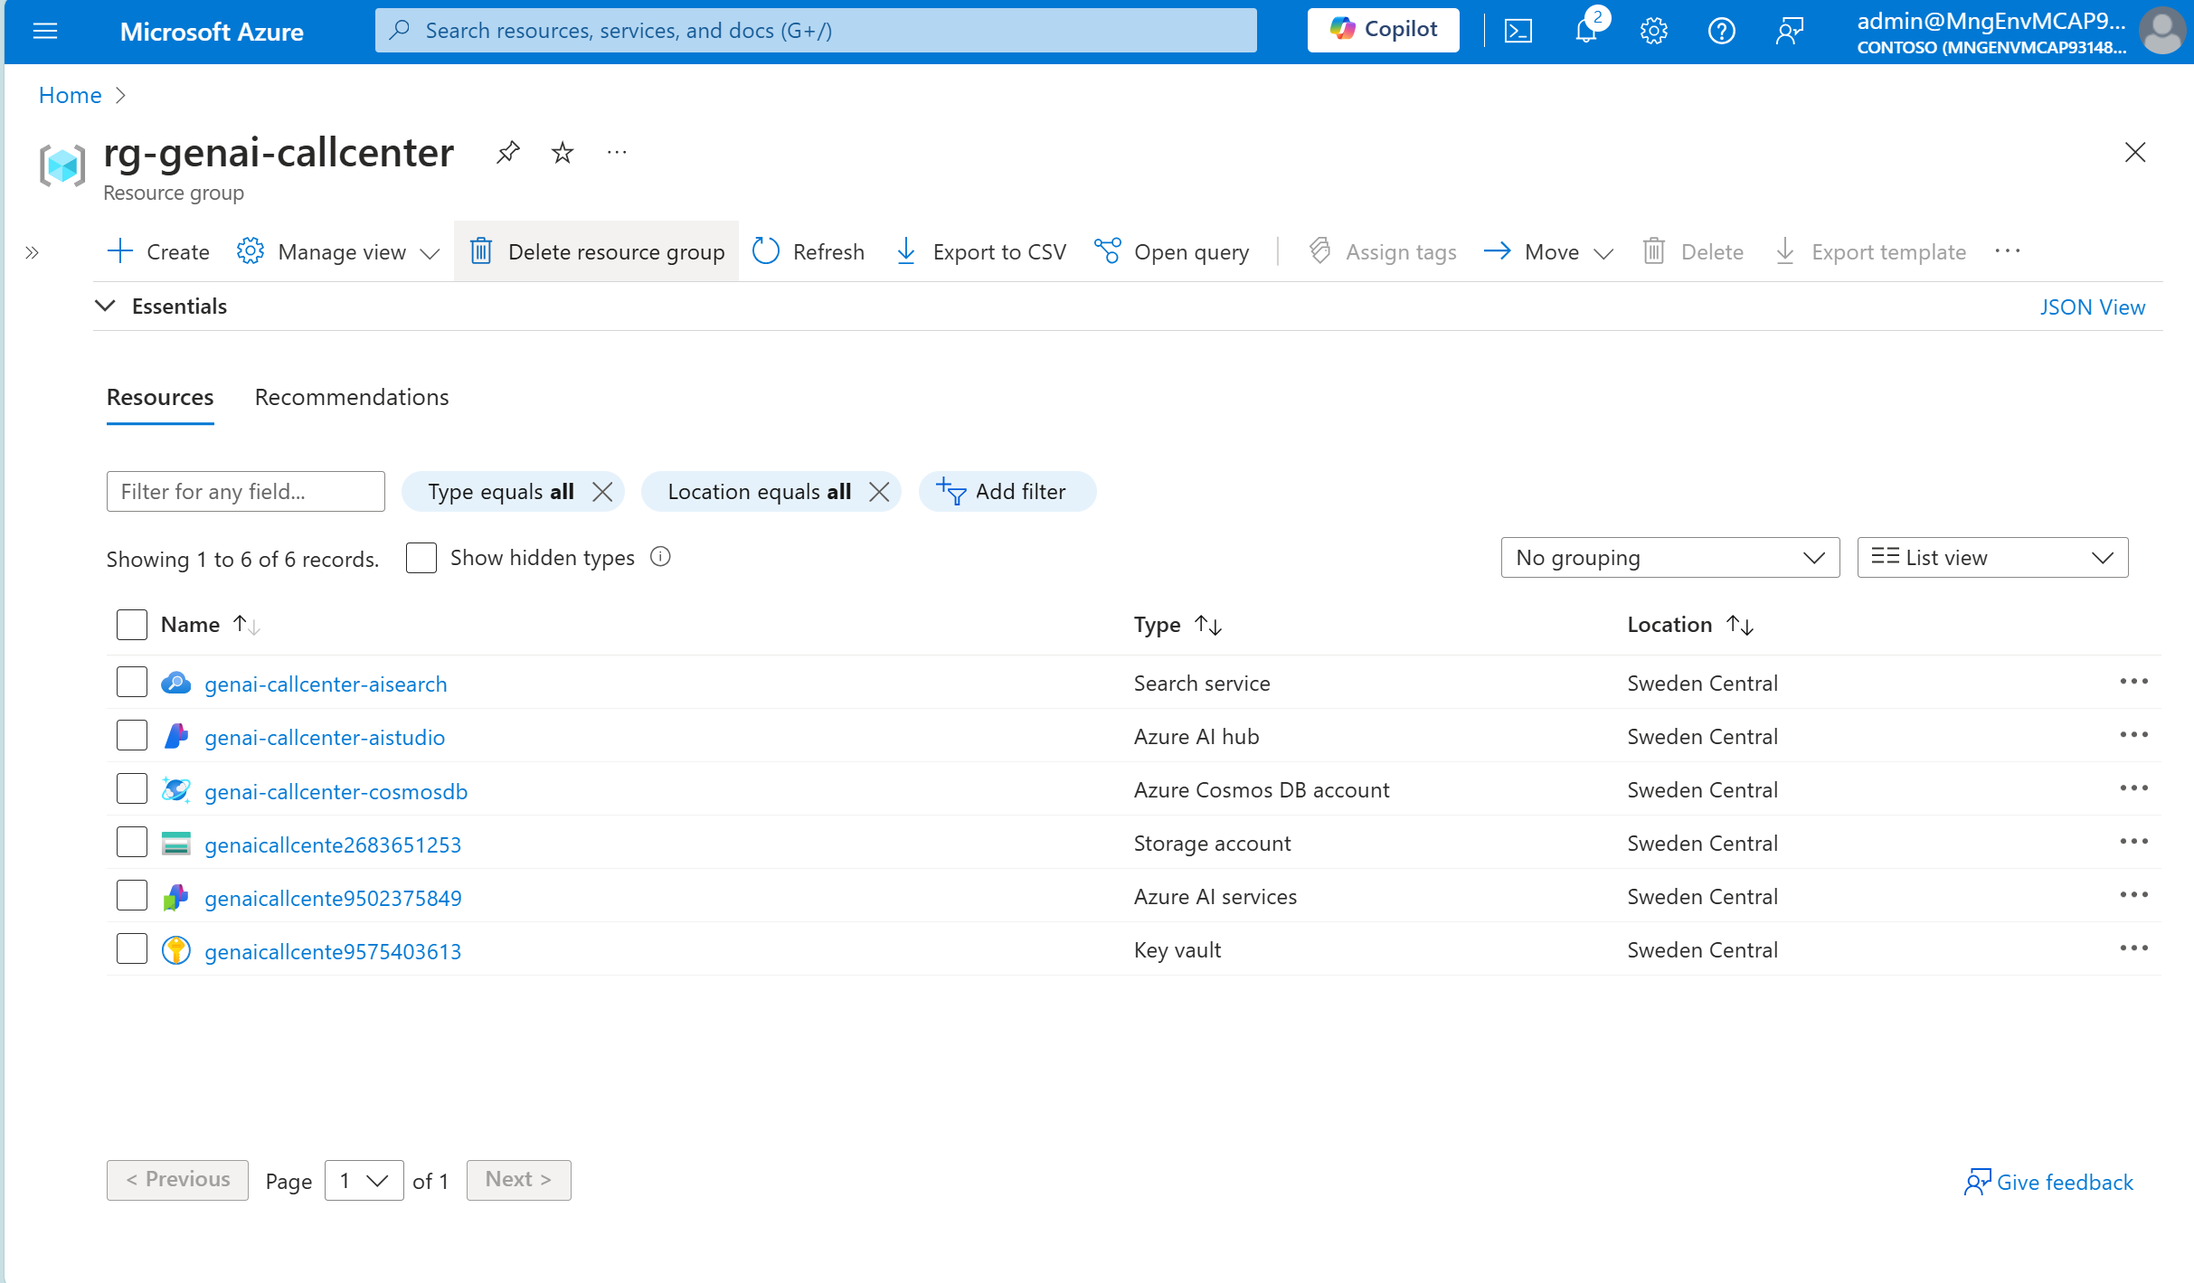
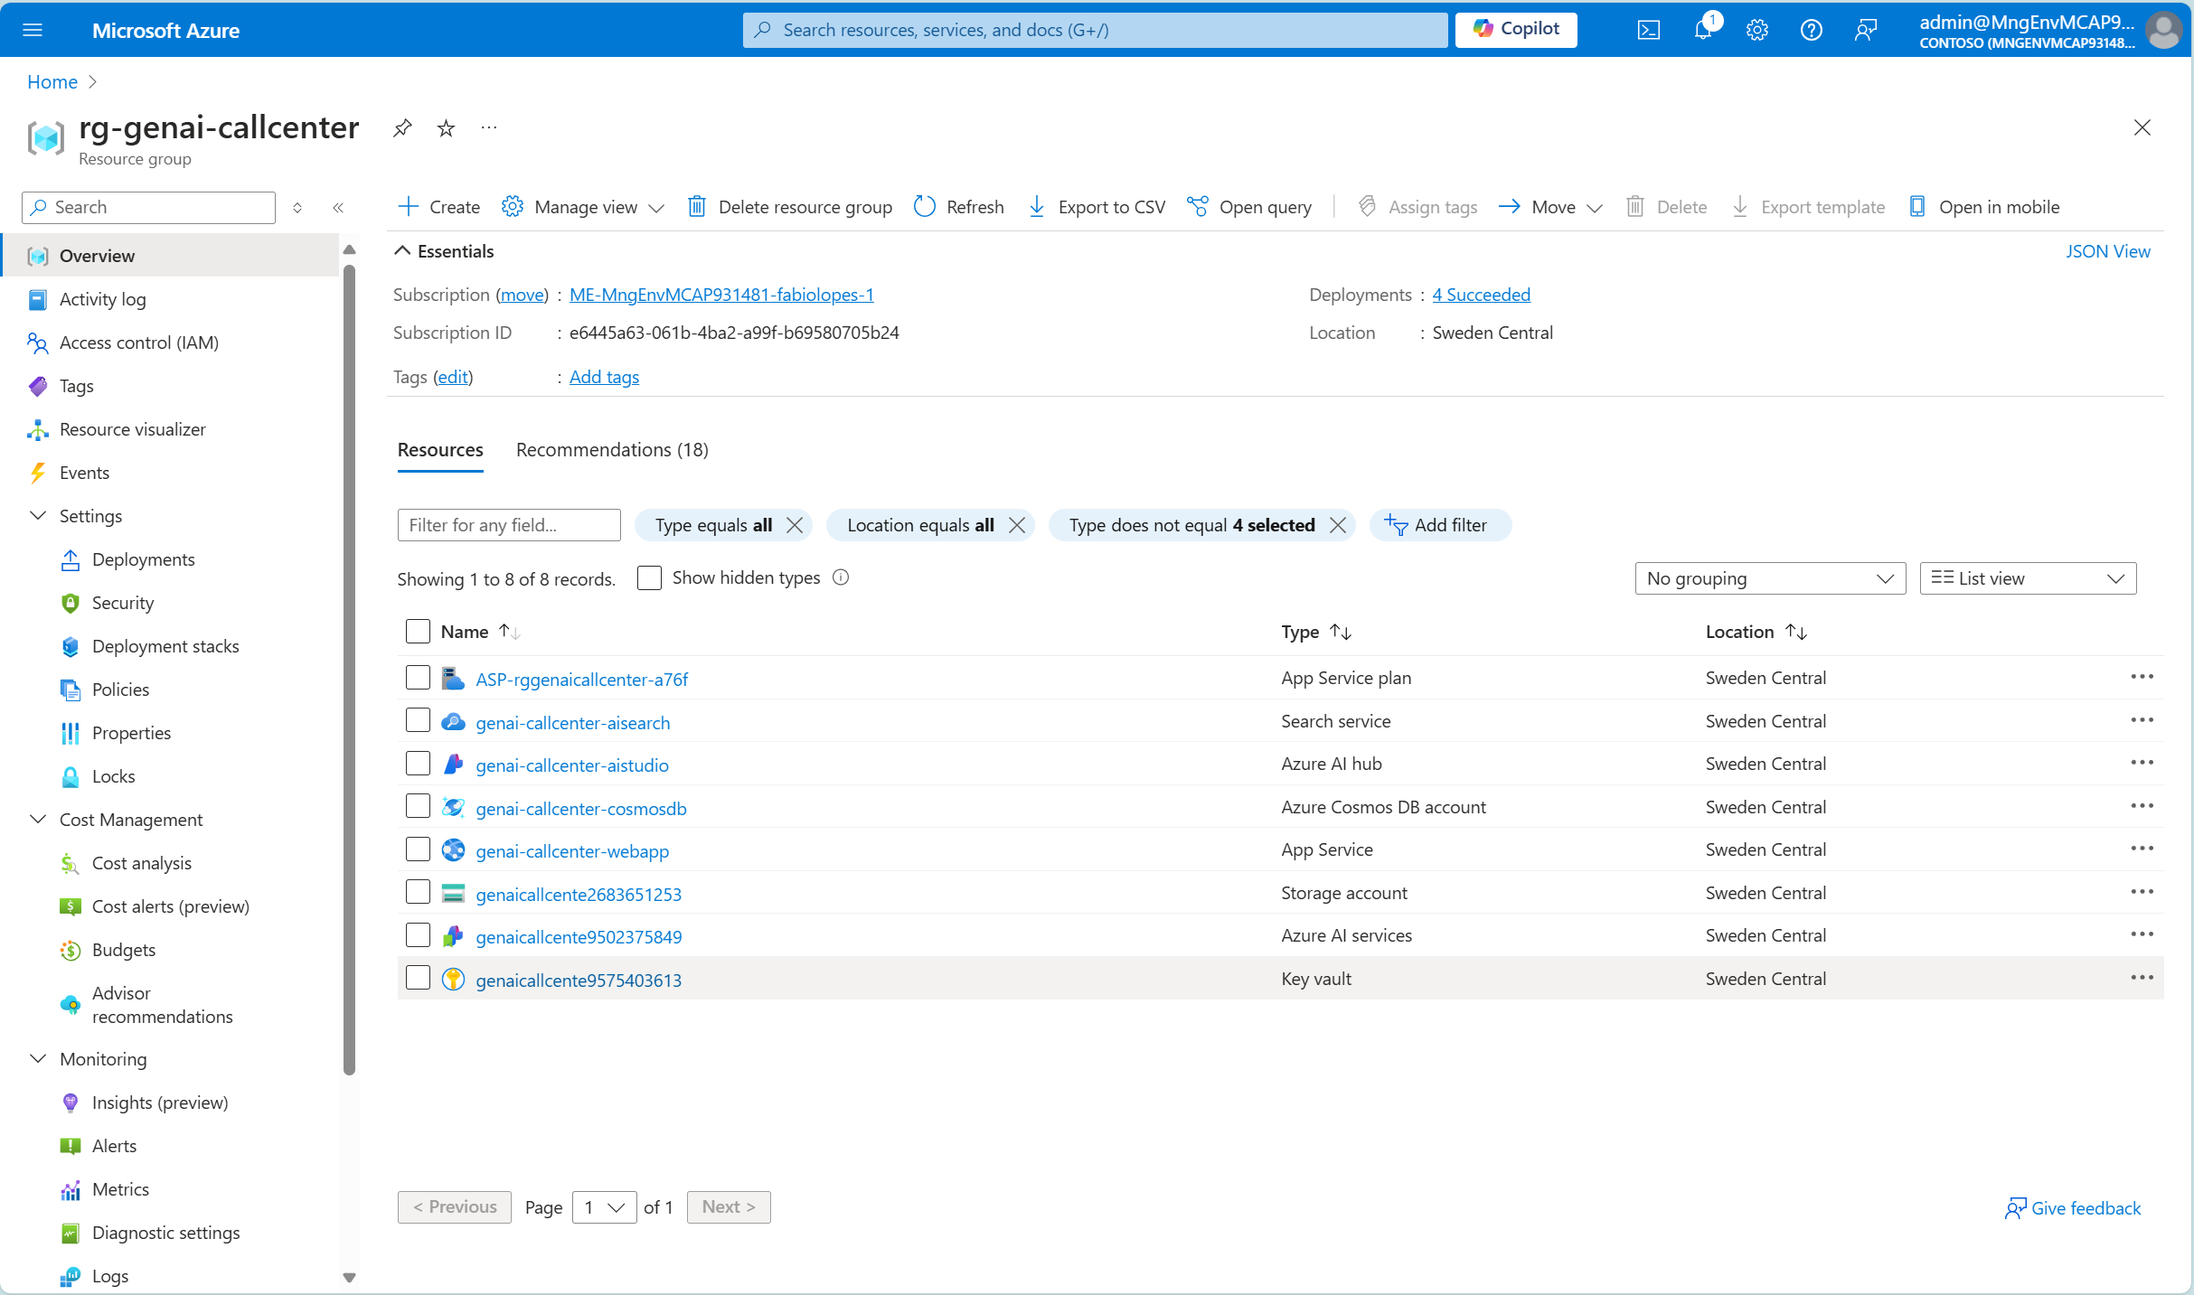
readme5

diff --git a/Challenge4/app.py b/Challenge4/app.py
@@ -15,12 +15,13 @@ from azure.cosmos import CosmosClient
 #################################################################################
 def allowSelfSignedHttps(allowed):
     # bypass the server certificate verification on client side
+    # Used to bypass the SSL certificate verification for the Prompt Flow endpoint
     if allowed and not os.environ.get('PYTHONHTTPSVERIFY', '') and getattr(ssl, '_create_unverified_context', None):
         ssl._create_default_https_context = ssl._create_unverified_context
 
 def init_session_state(call_id:str):
     """
-    Initialize session state for the app
+    Initialize session state for the app. This will reset all of the call context variables to their initial state.
     
     Args:
     call_id : str : the call_id selected by the user
@@ -154,17 +155,27 @@ def analyseCallFile(filename):
     Returns:
         None
     """
+    # setup Azure AI Speech SDK configuration
     speech_config = speechsdk.SpeechConfig(subscription=AZURE_AI_SPEECH_KEY, region=AZURE_AI_SPEECH_REGION)
-    audio_config = speechsdk.audio.AudioConfig(filename=filename)
 
+    # setup audio configuration. In here, we will use a .wav file as the input. You can also use a microphone as input.
+    audio_config = speechsdk.audio.AudioConfig(filename=filename)
     auto_detect_source_language_config = speechsdk.languageconfig.AutoDetectSourceLanguageConfig(languages=["en-US"])
+
+    # We configure the SDK to provide us with continuous regognition. This means that the SDK will keep listening to the audio input and provide us with the transcription as it comes in.
     speech_config.set_property(property_id=speechsdk.PropertyId.SpeechServiceConnection_LanguageIdMode, value='Continuous')
+    
     speech_recognizer = speechsdk.SpeechRecognizer(speech_config=speech_config, 
                                                    audio_config=audio_config,
                                                    auto_detect_source_language_config=auto_detect_source_language_config
                                                    )
 
-    done = False
+
+    # The SDK provides us with callbacks that we can use to handle the events fired by the recognizer.
+    # We will use these callbacks to update the UI elements with the transcription and the analysis results.
+    # We will also use these callbacks to save the transcript and the analysis results to CosmosDB.
+
+    done = False # initialize the variable to start the transcription
 
     def stop_cb(evt):
         """
@@ -183,7 +194,7 @@ def analyseCallFile(filename):
 
     # Connect callbacks to the events fired by the speech recognizer
     if debug:
-        # speech_recognizer.recognizing.connect(lambda evt: print('RECOGNIZING: {}'.format(evt))) # gets new texts as they come in
+        speech_recognizer.recognizing.connect(lambda evt: print('RECOGNIZING: {}'.format(evt))) # gets new texts as they come in
         speech_recognizer.recognized.connect(lambda evt: print('RECOGNIZED: {}'.format(evt))) # after a phrase being spoken, this event is fired
         speech_recognizer.session_started.connect(lambda evt: print('SESSION STARTED: {}'.format(evt))) # when transcription starts
         speech_recognizer.session_stopped.connect(lambda evt: print('SESSION STOPPED {}'.format(evt))) # when transcription ends
@@ -193,14 +204,14 @@ def analyseCallFile(filename):
     speech_recognizer.session_stopped.connect(stop_cb)
     speech_recognizer.canceled.connect(stop_cb)
 
-    # # Call analysis
-    speech_recognizer.recognized.connect(register_transcript) # Saves the entire transcription
-    speech_recognizer.recognizing.connect(handle_printable_text) # Saves the transcription to be displayed
+    # Call analysis
+    speech_recognizer.recognized.connect(register_transcript) # Saves the transcription
+    speech_recognizer.recognizing.connect(handle_printable_text) # Saves the transcription to be displayed in the frontend
     speech_recognizer.recognized.connect(call_analysis) # Analyzes the call by calling the Prompt Flow endpoint
 
     # Start continuous speech recognition
     speech_recognizer.start_continuous_recognition()
-    placeholder = st.empty()
+    placeholder = st.empty() # initialize the placeholder to display the UI elements
     while not done:
         time.sleep(.5) # Update the UI elements every 0.5 seconds
         with placeholder.container():
@@ -215,18 +226,21 @@ def analyseCallFile(filename):
                 col2.metric(label="Customer identified?", value=None)
                 col2.text_area(label="Customer Indentification", value=None, key=random())
             col2.text_area(label="Agent Next Best Action", value=call_context['nextBestAction'][-1], height=200, key=random())
-            col2.expander(label="History of Next Best Actions",expanded=False).write(call_context['nextBestAction'][-1:0:-1])
+            col2.expander(label="History of Next Best Actions",expanded=True).write(call_context['nextBestAction'][-1:0:-1])
 
 #################################################################################
 # END OF HELPER FUNCTIONS
 #################################################################################
 
-# Set environment
+##### Set environment
+# Load the environment variables from the 'config.env' file
 load_env = load_dotenv(find_dotenv('config.env'))
 call_context = {}
 debug = True
 
-##### Check if the environment variables are loaded successfully
+##### Validate environment
+
+# Check if the environment variables are loaded successfully
 assert load_env, "Error loading environment variables. Make sure that you have the 'config.env' file in the root directory."
 
 AZURE_AI_SPEECH_KEY = os.environ["SPEECH_KEY"]
@@ -247,27 +261,27 @@ assert COSMOSDB_CONNECTION_KEY, "Please specify the connection key for CosmosDB.
 assert COSMOSDB_DATABASE_NAME, "Please specify the database name for CosmosDB."
 assert COSMOSDB_CONTAINER_NAME, "Please specify the container name for CosmosDB."
 
+##### Initialize CosmosDB client
+# Create a Cosmos DB client
+cosmos_client = CosmosClient(COSMOSDB_CONNECTION_URL, credential=COSMOSDB_CONNECTION_KEY)
+# Get a reference to the database
+cosmos_database = cosmos_client.get_database_client(COSMOSDB_DATABASE_NAME)
+# Get a reference to the container
+cosmos_container = cosmos_database.get_container_client(COSMOSDB_CONTAINER_NAME)
+
+##### Frontend UI
+# Obtain list of calls
+calls = os.listdir(os.path.join("Call Samples","Audio"))
+calls = [ call.replace('.wav','') for call in calls ]
+calls.sort()
+
+# Start page definition
 st.set_page_config(
     page_title="Agent Assistance",
     page_icon=":robot_face:",
     layout="wide"
 )
 
-### Initialize CosmosDB client
-# Create a Cosmos DB client
-cosmos_client = CosmosClient(COSMOSDB_CONNECTION_URL, credential=COSMOSDB_CONNECTION_KEY)
-# Get a reference to the database
-cosmos_database = cosmos_client.get_database_client(COSMOSDB_DATABASE_NAME)
-
-# Get a reference to the container
-cosmos_container = cosmos_database.get_container_client(COSMOSDB_CONTAINER_NAME)
-
-### Obtain list of calls
-calls = os.listdir(os.path.join("Call Samples","Audio"))
-calls = [ call.replace('.wav','') for call in calls ]
-calls.sort()
-
-### Start page definition
 call_id =st.selectbox("Select a call", calls)
 if st.button("Start"):
     init_session_state(call_id)

diff --git a/Challenge4/README.md b/Challenge4/README.md
@@ -6,11 +6,17 @@
 
 ## Introduction
 
-**TO BE DONE**
+In the previous Challenge you created a Prompt Flow endpoint which can be used in an application to execute the flow defined in the previous challenges. In this challenge, you will create a real-time call transcription application that will assist the agent during the call. The application will transcribe the call in real time and provide suggestions to the agent based on the conversation and also save the call information in a Cosmos DB database.
 
-## Our scenario
+To this extent, we will use a pre-recorded call sample and transcribe it in real time. The application will use the Azure Speech Service to transcribe the call in real-time and our application will call the Prompt Flow endpoint each time a new sentence has been spoken to provide suggestions to the agent.
 
-**TO BE DONE**
+![arch](./images/arch.png)
+
+In a real-world scenario, you would use Azure AI Speech to transcribe the incoming call in real-time and not use pre-recorded calls. However, for the purpose of this challenge, we will use pre-recorded calls to simulate the real-time transcription.
+
+The sample calls have been recorded and are available in the [Call Samples/Audio](<../Challenge4/Call Samples/Audio/>) folder. To generate the calls, the SOPs defined in the previous challenges were provided to an LLM which generated 3 transcripts per type of SOP and, using Azure AI Speech, the transcripts were converted to audio files.
+
+You will be able to test the application with all of the Audio Samples or, if available to you, provide your own by including them in the [Call Samples](<../Challenge4/Call Samples/Audio/>) folder.
 
 ## Install the required programs
 ### Visual Studio Code
@@ -28,6 +34,11 @@
     - It is usually pre-installed. Check version with `python3 --version`.
 - Mac
     - `brew install python3`
+
+## Guide: Install Azure Web App Service extension
+1. Open Visual Studio Code.
+2. Click on the Extensions icon on the left sidebar.
+3. Search for `Azure Web App Service` and click on `Install`.
 
 ## Guide: Setup local environment
 1. Clone the repository to your local machine.
@@ -65,10 +76,6 @@
     * Fill in the `COSMOSDB_DATABASE_NAME` and `COSMOSDB_CONTAINER_NAME` fields in the `config.env` file with the values specified in [Challenge 1](../Challenge1/README.md). If you followed the guide, the values should be `callcenter` and `calls`, respectively.
     ![config](./images/config.png)
 
-## Guide: Explain the app
-
-**TO BE DONE**
-
 ## Guide: Run the app
 1. Navigate to the `Challenge4` folder.
 2. Open a terminal window and run the following command: `streamlit run app.py`
@@ -78,15 +85,18 @@
 ![app1](./images/app1.png)
 5. The application will start transcribing the call and providing suggestions to the agent in real time. Every time the application detects that a complete phrase was spoken, it will call the Prompt Flow endpoint and update all the info to the agent.
 ![app2](./images/app2.png)
+6. Notice that in the terminal where streamlit was executed you will see the results of the transcription provided by Azure AI Speech in real-time, including each new word that it is able to capture.
 6. After the transcription is finished, the application will save the call information in the Cosmos DB database.
 7. Navigate to the [Azure portal](https://portal.azure.com/#home) and login with your account.
 8. Navigate to your resource group.
 9. Select the `Azure Cosmos DB` resource.
 10. Navigate to the resource page and, from the left tabs, select `Data Explorer`.
 11. You should see your database and container created in [Challenge 1](../Challenge1/README.md).
+12. With the transcriptions available in the `calls` container, you can later use the data to analyze the calls and evaluate the performance of your call center operations. You can find an example of this [here](https://github.com/microsoft/Customer-Service-Conversational-Insights-with-Azure-OpenAI-Services).
 
 ## Conclusion
-Add things here.
+In this challenge, you created a real-time call transcription application that assists the agent during the call. The application transcribes the call in real-time and provides suggestions to the agent based on the conversation. The application also saves the call information in a Cosmos DB database.
 
 ## Learning Material
-Add things here.
+- [Customer Service Conversational Insights with Azure OpenAI Services](https://github.com/microsoft/Customer-Service-Conversational-Insights-with-Azure-OpenAI-Services)
+- [Streamlit](https://streamlit.io/)

diff --git a/Challenge1/README.md b/Challenge1/README.md
@@ -18,6 +18,9 @@ Azure Cosmos DB is a globally distributed, multi-model database service provided
 ### ![Azure AI Studio](./images/03513-icon-service-AI-Studio.svg) Azure AI Studio
 Azure AI Studio is a comprehensive toolchain that provides a unified experience for AI developers and data scientists to build, evaluate, and deploy AI models through a web portal, SDK, or CLI. It allows users to deploy serverless models and get started quickly with ready-to-use APIs without the need to provision GPUs. AI Studio provides access to collaborative, comprehensive tooling to support the development lifecycle and differentiate your apps, including Azure AI Search, fine-tuning, prompt flow, open frameworks, tracing and debugging, and evaluations. It also offers responsible AI tools and practices to design and safeguard applications, as well as enterprise-grade production at scale to deploy AI innovations to Azure's managed infrastructure with continuous monitoring and governance across environments.
 
+### ![Azure Web App](./images/10035-icon-service-App-Services.svg) Azure Web App
+Azure Web App is a fully managed platform for building, deploying, and scaling web apps. It supports multiple programming languages and frameworks, including .NET, Java, Node.js, Python, and PHP. Azure Web App provides built-in auto-scaling and load balancing, along with a robust set of DevOps capabilities such as continuous deployment from GitHub, Azure DevOps, or any Git repository. It also offers integrated monitoring and diagnostics to ensure high availability and performance. With Azure Web App, you can quickly build and deploy mission-critical web applications that meet rigorous compliance requirements.
+
 ## Resource Deployment Guide
 1. Navigate to the [Azure portal](https://portal.azure.com/#home) and login with your account.
 2. Navigate to your resource group. In this guide, the resource group is named `rg-genai-callcenter`. At this point, it should be empty.
@@ -56,10 +59,22 @@ Azure AI Studio is a comprehensive toolchain that provides a unified experience 
     ![AI Hub](./images/aihub.png)
     * Wait for the deployment to complete.
 8. Navigate to your resource group.
-9. You should now have all the services deployed in your resource group:
+9. Let's create our **Azure Web App**.
+    * Click on the `Create` button.
+    * Search for `Azure Web App` and click `Create`.
+    * Fill the *Name* field and select the *Region*. Be sure to use the same *Location* for all services wherever possible.
+    * In the *Publish* field, select `Code`.
+    * In the *Runtime stack* field, select `Python 3.12`.
+    * In the *Pricing Plan* field, select `Basic B1`.
+    * Click on `Review + Create` and then `Create`.
+    * Wait for the deployment to complete.
+10. Navigate to your resource group.
+11. You should now have all the services deployed in your resource group:
     * An Azure AI Search Service
     * An Azure Cosmos DB account
     * An Azure AI Studio
+    * An Azure App Service
+    * An Azure App Service Plan
     * An Azure Storage Account (deployed automatically by AI Studio)
     * An Azure Key Vault (deployed automatically by AI Studio)
     * An Azure AI Services (deployed automatically by AI Studio)

diff --git a/Challenge5/README.md b/Challenge5/README.md
@@ -1,0 +1,32 @@
+![3](https://github.com/user-attachments/assets/dad008f7-0112-45a9-baa0-a2461a67130b)
+
+# Challenge 5 - Deploy the application
+
+**Expected Duration:** 30 minutes
+
+## Introduction
+In this challenge, we will deploy our streamlit application to an Azure Web App Service to be available for usage outside of our local environment.
+
+## Guide: Configure the Azure Web App Service to run Streamlit
+1. Navigate to the [Azure portal](https://portal.azure.com/#home) and login with your account.
+2. Navigate to your resource group.
+3. Locate your Azure App Service (not the Azure App Service Plan created automatically for you) and open it.
+    * In the left pane, select `Settings` and `Configuration`.
+    * Locate the *Startup Command*. Replace the default value with:
+    ```python -m streamlit run app.py --server.port 8000 --server.address 0.0.0.0```
+    ![appconfig](./images/appconfig.png)
+    * Click on the `Save` button at the top.
+4. Return to Visual Studio Code and open the `Challenge4` folder. Note: Open the `Challenge4` folder, not the `root` folder where all the Challenges reside.
+![vscode](./images/vscode.png)
+5. Right click the empty space in the `Challenge4` directory within Visual Studio Code and select `Deploy to Web App`.
+![deploywebapp](./images/deploywebapp.png)
+6. Select the Azure Web App created in [Challenge 1](../Challenge1/README.md) and deploy your Web App.
+7. Wait for the deployment to complete.
+8. Return to the Azure portal and navigate to your Azure Web App.
+9. You can find the URL of your application in the `Overview` section, under the `Default domain` field.
+![url](./images/url.png)
+10. Open the URL in your browser to access the application.
+11. The first time you open your application it may take 1/2 minutes to load. Subsequent loads will be faster.
+
+## Conclusion
+In this challenge, you have successfully deployed your Streamlit application to an Azure Web App Service. You can now access your application from anywhere with an internet connection.
